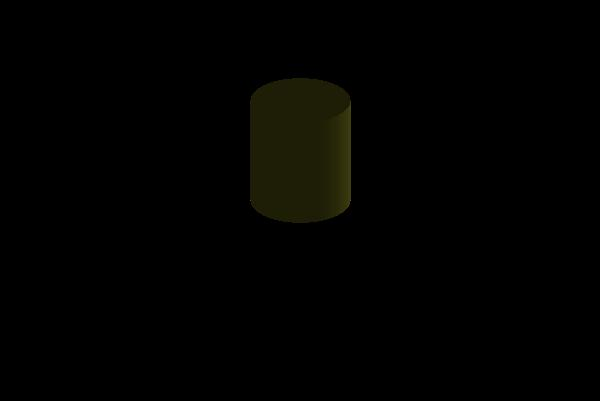
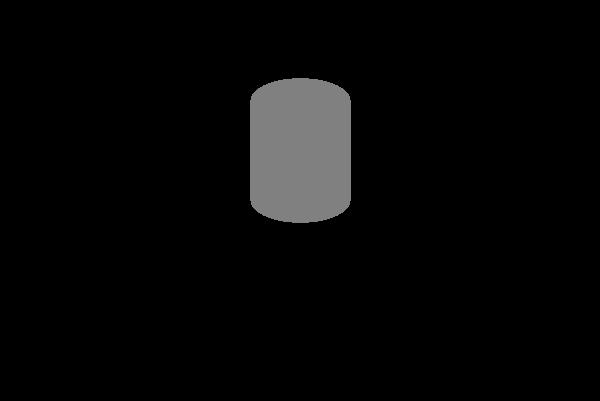
added illumination model

Changed region(s): [[0.39, 0.1796, 0.6, 0.5686]]

diff --git a/src/raytracing/RayTracer.java b/src/raytracing/RayTracer.java
@@ -7,6 +7,7 @@ import math.*;
 public class RayTracer {
 	
 	public static final int RECURSION_LIMIT = 10;
+	public static final Color G_AMBIENT = Color.createColor(new Color(100, 100, 100));
 	
 	private Scene scene;
 	
@@ -55,24 +56,58 @@ public class RayTracer {
 	}
 	
 	public Color findColor(SceneObject o, double d, Ray r, int recursion){
-		Color color, reflectColor, refractColor;
-		color = reflectColor = refractColor = o.getMaterial().getColor();
+		Color color, reflectColor, refractColor, ga, oa;
+		color = reflectColor = refractColor = oa = o.getMaterial().getColor();
+		ga = G_AMBIENT; 
+		color = ga.combine(oa);
 		Vector intersection = r.getPoint(d);
 		Vector normal = o.getNormal(intersection);
 		double diffuse = o.getMaterial().getDiffuse();
 		double reflection = o.getMaterial().getReflection();
 		double refraction = o.getMaterial().getRefraction();
-		double shade = 0.0;
+		double t2 = -1;
+		boolean shadow = false;
 		
 		for (int k = 0; k < scene.getNumLights(); k++){
 			Light light = scene.getLight(k);
-			Vector posLight = light.getPos();
-			posLight.normalize();
-			shade = posLight.dot(normal);
-			if (shade < 0){
-				shade = 0;
+			Vector dirLight = light.getPos().substract(intersection).normalized();
+			Ray rLight = new Ray(intersection, dirLight);
+			double tt = rLight.getT(light.getPos());
+			for(int j = 0; 	!shadow && j < scene.getNumObjects(); j++){
+				t2 = scene.getObject(j).intersects(rLight);
+				if (t2 > 0 && t2 <= tt){
+					shadow = true;
+					break;
+				}
 			}
-			color = color.multiply((float)((1-diffuse)+diffuse*shade));
+			
+			if(!shadow){
+				Color la = light.getAmbient();
+				//color = color.add(la.multiply(oa));
+				color = color.combine(la).combine(oa);
+				
+				Color ld = light.getDiffuse();
+				Color od = o.getMaterial().getColor().multiply((float)diffuse);
+				
+				double dot = normal.dot(dirLight);
+				double att = 15 / (light.getPos().substract(intersection)).magnitudeSquared();
+				
+				if(dot > 0){
+					//color = color.add(ld.multiply(od).multiply((float)att).multiply((float)dot));
+					color = color.combine(ld).combine(od).multiply((float)att).multiply((float)dot);
+					
+					Color ls = light.getSpecular();
+					Vector v = r.getDirection();
+					Vector l = rLight.getDirection();
+					Vector rr = l.substract((normal.multiply(2*l.dot(normal))));
+					double kk = v.dot(rr);
+					if(kk > 0){
+						double ms =o.getMaterial().getSpecular();
+						//color = color.add(ls.multiply((float)Math.pow(k, 20)).multiply((float)ms));
+						color = color.combine(ls.multiply((float)Math.pow(k,20))).multiply((float)ms);
+					}
+				}
+			}
 		}
 		
 		double c1 = - normal.dot(r.getDirection());

diff --git a/src/image/Color.java b/src/image/Color.java
@@ -18,6 +18,45 @@ public class Color extends java.awt.Color {
 		return new Color(getColorComponents(null)[0] * num, getColorComponents(null)[1] * num, getColorComponents(null)[2] * num);
 	}
 	
+	public Color multiply(Color c){
+		float r = c.getColorComponents(null)[0];
+		float g = c.getColorComponents(null)[1];
+		float b = c.getColorComponents(null)[2];
+		if (r > 1) r = 1;
+		if (r < 0) r = 0;
+		if (g > 1) g = 1;
+		if (g < 0) g = 0;
+		if (b > 1) b = 1;
+		if (b < 0) b = 0;
+		return new Color(getColorComponents(null)[0] * r, getColorComponents(null)[1] * g, getColorComponents(null)[2] * b);	
+	}
+	
+	public Color add(Color c){
+		float r = getColorComponents(null)[0] + c.getColorComponents(null)[0];
+		float g = getColorComponents(null)[0] + c.getColorComponents(null)[1];
+		float b = getColorComponents(null)[0] + c.getColorComponents(null)[2];
+		if (r > 1) r = 1;
+		if (r < 0) r = 0;
+		if (g > 1) g = 1;
+		if (g < 0) g = 0;
+		if (b > 1) b = 1;
+		if (b < 0) b = 0;
+		return new Color(r,g,b);
+	}
+	
+	public Color substract(Color c){
+		float r = getColorComponents(null)[0] - c.getColorComponents(null)[0];
+		float g = getColorComponents(null)[0] - c.getColorComponents(null)[1];
+		float b = getColorComponents(null)[0] - c.getColorComponents(null)[2];
+		if (r > 1) r = 1;
+		if (r < 0) r = 0;
+		if (g > 1) g = 1;
+		if (g < 0) g = 0;
+		if (b > 1) b = 1;
+		if (b < 0) b = 0;
+		return new Color(r,g,b);			
+	}
+	
 	public Color combine(Color c) {
 		float colorComponents[][] = { getColorComponents(null), c.getColorComponents(null) };
 		float newColorComponents[] = new float[3];

diff --git a/src/raytracing/Main.java b/src/raytracing/Main.java
@@ -11,7 +11,8 @@ public class Main {
 		
 		Scene scene = null;
 		try {
-			scene = Parser.parse("scenes/cylinder.xml");
+			//scene = Parser.parse("scenes/cylinder.xml");
+			scene = Parser.parse("scenes/basic.xml");
 		} catch (Exception e) {
 			e.printStackTrace();
 			return;
@@ -20,8 +21,8 @@ public class Main {
 		RayTracer rt = new RayTracer(scene);
 		long begin = System.currentTimeMillis();
 		int[][] imageColors = rt.execute();
-		//Image.generateImage(imageColors).save("basicWithParse.jpg", "jpeg");
-		Image.generateImage(imageColors).save("cylinder.jpg", "jpeg");
+		Image.generateImage(imageColors).save("basicWithParse.jpg", "jpeg");
+		//Image.generateImage(imageColors).save("cylinder.jpg", "jpeg");
 		/*try {
 			GridRenderer.render(scene);
 		} catch(GridException ge) {

diff --git a/src/scene/Material.java b/src/scene/Material.java
@@ -11,16 +11,26 @@ public class Material implements Serializable {
 	private double reflection;
 	private double diffuse;
 	private double refraction;
+	private double specular;
 	
-	public Material(Color color, double reflection, double diffuse, double refraction) {
+	public Material(Color color, double diffuse, double specular, double reflection, double refraction) {
 		this.color = color;
 		this.reflection = reflection;
 		this.diffuse = diffuse;
 		this.refraction = refraction;
+		this.specular = specular;
 	}
 	
 	public Color getColor() {
 		return color;
+	}
+	
+	public void setSpecular(double specular) {
+		this.specular = specular;
+	}
+	
+	public double getSpecular() {
+		return specular;
 	}
 	
 	public void setColor(Color color) {

diff --git a/src/parser/SceneObjectFactory.java b/src/parser/SceneObjectFactory.java
@@ -61,7 +61,8 @@ public class SceneObjectFactory {
 		double diffuse = Double.parseDouble(info.getChild("diffuse").getAttributeValue("value"));
 		double refraction = Double.parseDouble(info.getChild("refraction").getAttributeValue("value"));
 		double reflection = Double.parseDouble(info.getChild("reflection").getAttributeValue("value"));
-		return new Material(color, reflection, diffuse, refraction);
+		double specular = Double.parseDouble(info.getChild("specular").getAttributeValue("value"));
+		return new Material(color, reflection, diffuse, refraction, specular);
 	}
 	
 	public static Light createLight(Element info) {

diff --git a/src/math/Ray.java b/src/math/Ray.java
@@ -26,4 +26,12 @@ public class Ray implements Serializable {
 		return direction;
 	}
 
+	public double getT(Vector v){
+		double t = (v.getComponents()[0] - origin.getComponents()[0])/direction.getComponents()[0];
+		if(Math.abs(t - (v.getComponents()[1] - origin.getComponents()[1]/direction.getComponents()[1])) <= 0.0001
+				&& Math.abs(t - (v.getComponents()[2] - origin.getComponents()[2]/direction.getComponents()[2])) <= 0.0001){
+			return t;
+		}
+		return -1;
+	}
 }
